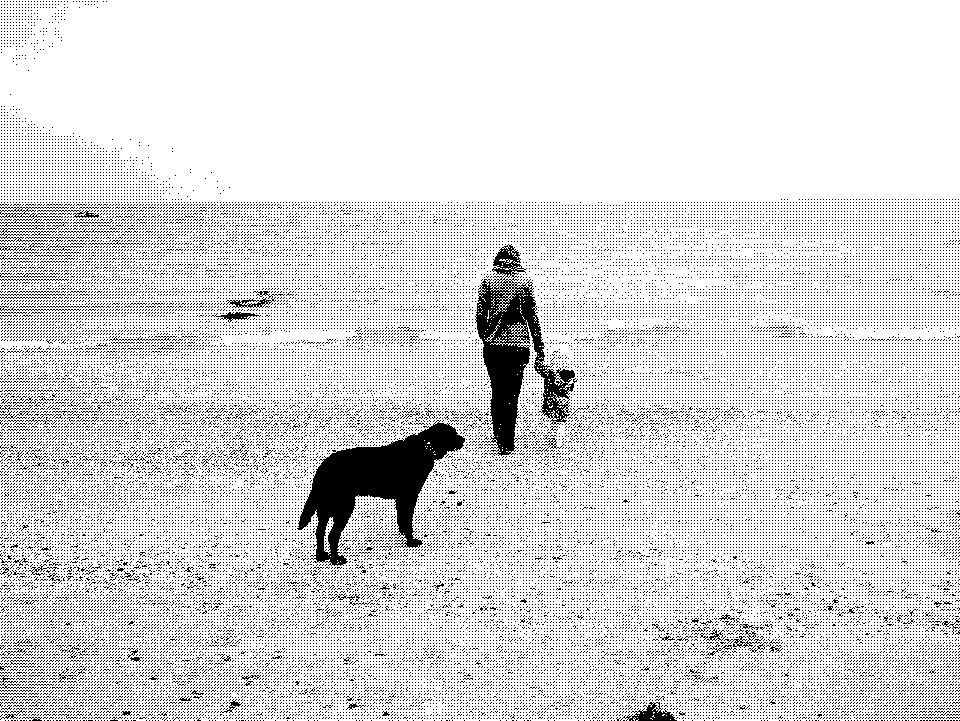
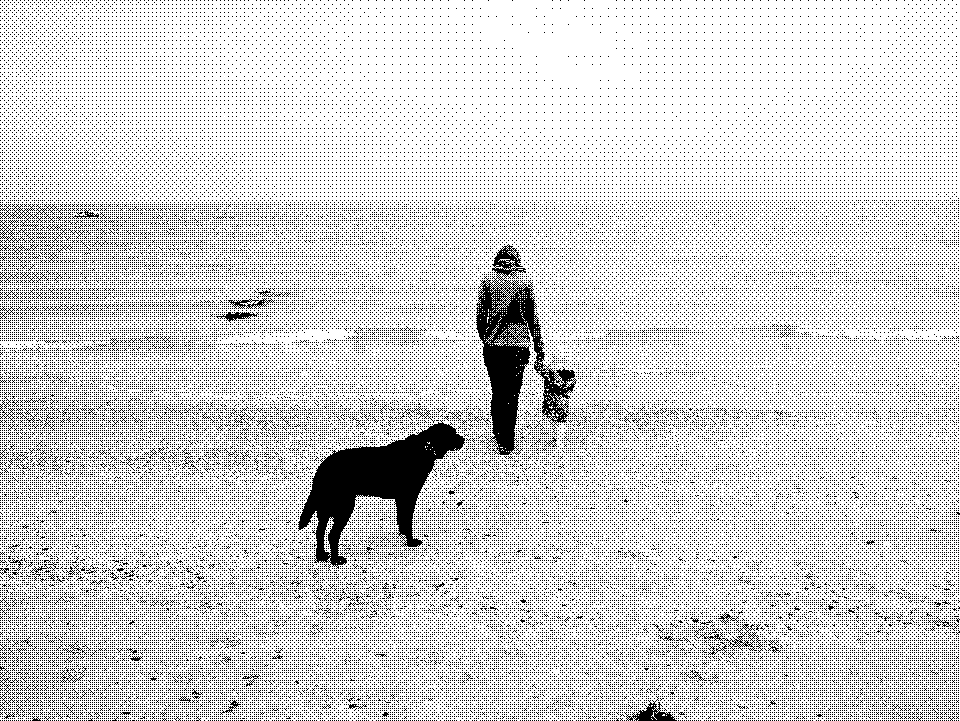
change dither type

Changed region(s): [[0.0, 0.1221, 1.0, 1.0], [0.0, 0.0, 0.0938, 0.0915]]

diff --git a/index.html b/index.html
@@ -87,7 +87,7 @@
 <footer>
 <hr>
 <div id="sourhall_data"></div>
-    Inspired by <a href="https://solar.lowtechmagazine.com">LOW←TECH MAGAZINE</a> | Icon by <a href="https://thenounproject.com/term/panels/2696981/">Icongeek26</a> | Page size including images: 27kb | <a href="https://github.com/fiskurgit/Statisk">Fisk Statisk</a><br>
+    Inspired by <a href="https://solar.lowtechmagazine.com">LOW←TECH MAGAZINE</a> | Icon by <a href="https://thenounproject.com/term/panels/2696981/">Icongeek26</a> | Page size including images: 28kb | <a href="https://github.com/fiskurgit/Statisk">Fisk Statisk</a><br>
 </footer>
 <script>
 function fetchAwairData(callback) {
